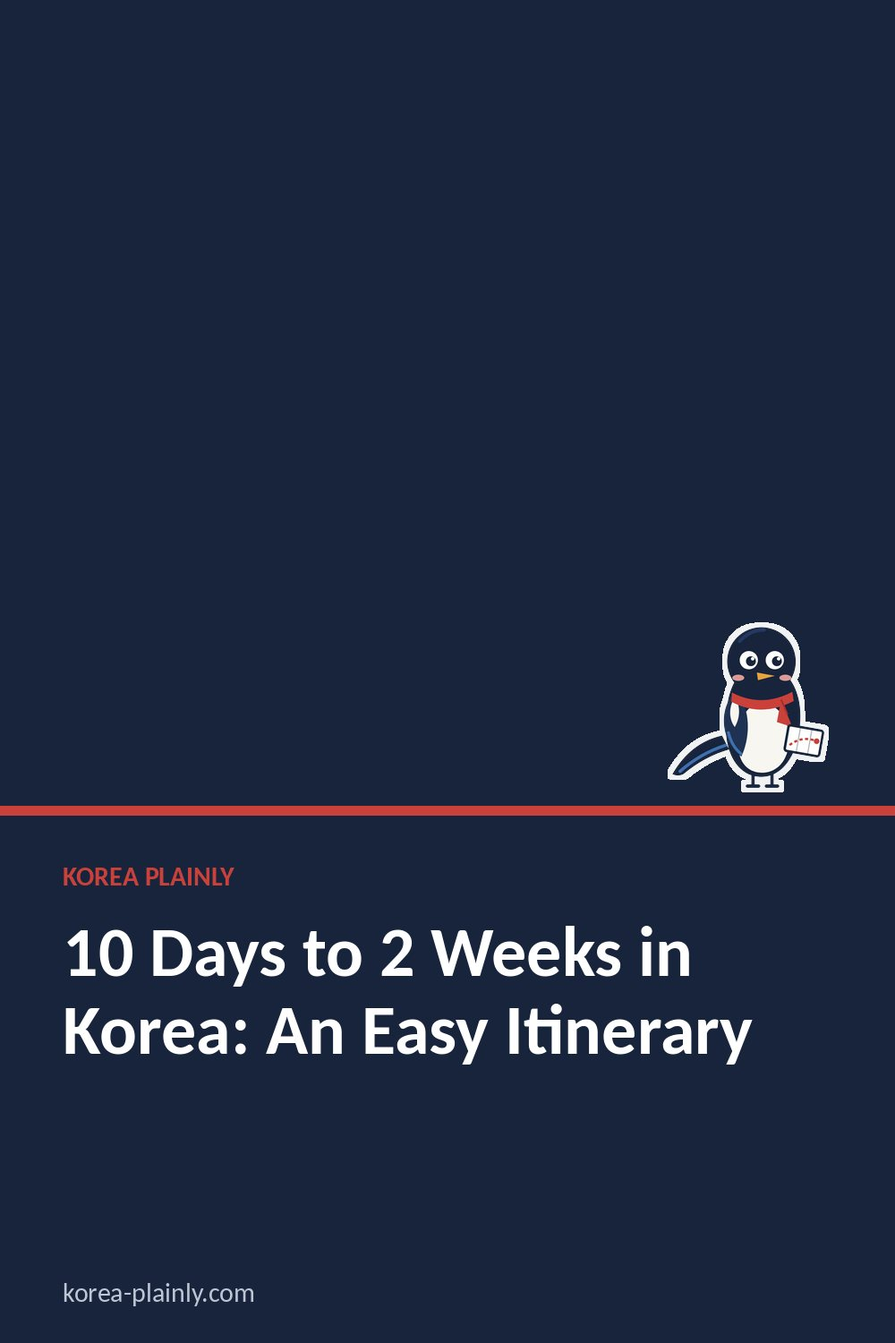
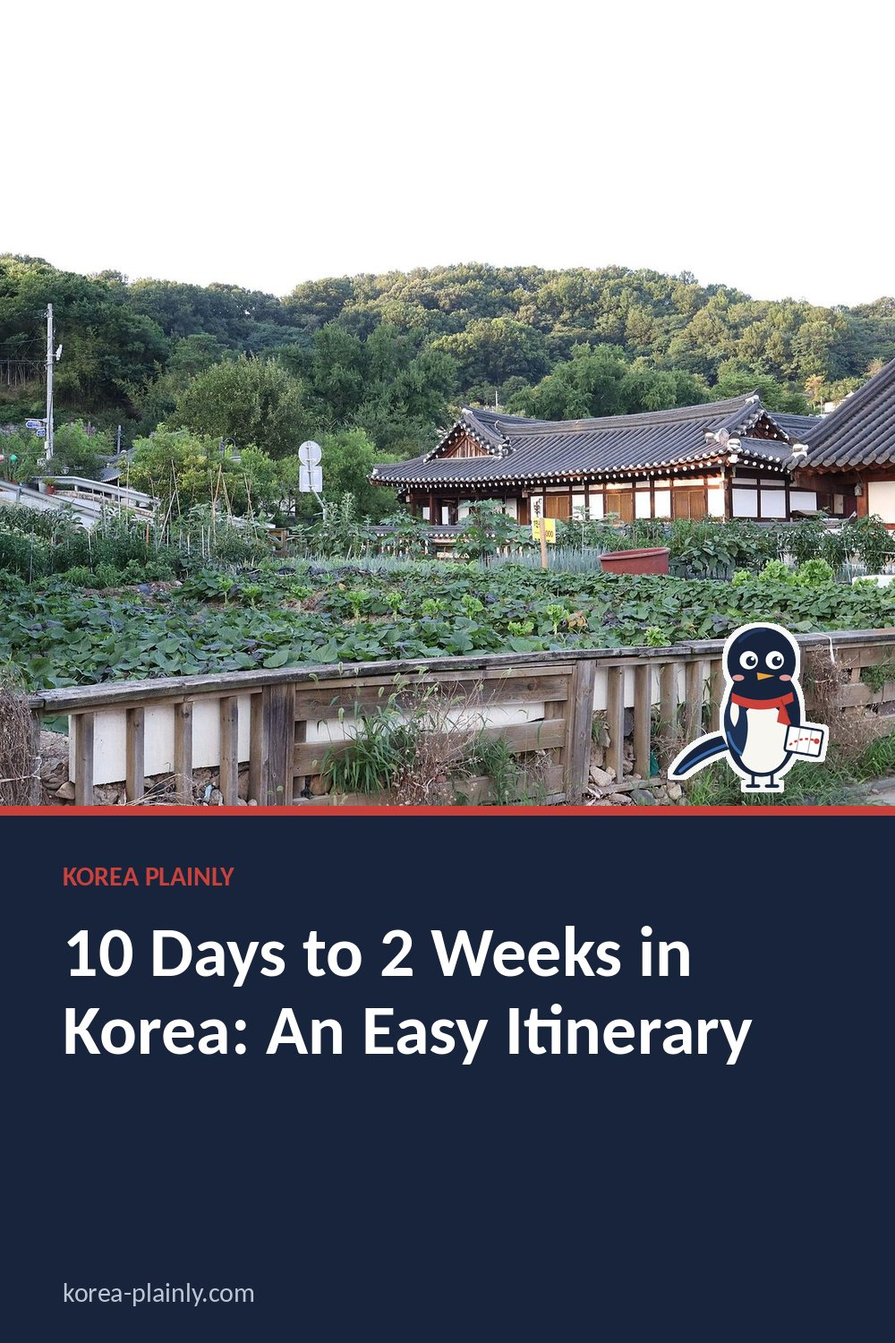
Site maintenance

diff --git a/seoul-5-day-itinerary.html b/seoul-5-day-itinerary.html
@@ -44,7 +44,7 @@
 
 <meta
   property="og:image"
-  content="https://korea-plainly.com/og-default.jpg"
+  content="https://korea-plainly.com/photo-seoul-5-day-itinerary.jpg"
 >
 
 <meta
@@ -69,7 +69,7 @@
 
 <meta
   name="twitter:image"
-  content="https://korea-plainly.com/og-default.jpg"
+  content="https://korea-plainly.com/photo-seoul-5-day-itinerary.jpg"
 >
 
 <style>
@@ -247,7 +247,7 @@ footer {
 <link rel="stylesheet" href="article.css?v=3">
 <link rel="stylesheet" href="https://fonts.googleapis.com/css2?family=DM+Sans:wght@400;500;600;700&family=Playfair+Display:ital,wght@0,600;1,600&display=swap">
 <link rel="icon" href="/favicon.svg" type="image/svg+xml">
-<script type="application/ld+json" id="kp-article-ld">{"@context": "https://schema.org", "@type": "Article", "headline": "5 Days in Seoul: A Relaxed Itinerary for First-Timers", "description": "Five days in Seoul for first-time visitors: palaces and hanok lanes, markets and Namsan, Hongdae and the Han River, Gangnam and Jamsil, and a day trip to the DMZ or Suwon.", "image": ["https://korea-plainly.com/og-default.jpg"], "datePublished": "2026-10-15", "dateModified": "2026-10-15", "author": {"@type": "Organization", "name": "Korea Plainly", "url": "https://korea-plainly.com/"}, "publisher": {"@type": "Organization", "name": "Korea Plainly", "url": "https://korea-plainly.com/"}, "mainEntityOfPage": "https://korea-plainly.com/seoul-5-day-itinerary.html"}</script>
+<script type="application/ld+json" id="kp-article-ld">{"@context": "https://schema.org", "@type": "Article", "headline": "5 Days in Seoul: A Relaxed Itinerary for First-Timers", "description": "Five days in Seoul for first-time visitors: palaces and hanok lanes, markets and Namsan, Hongdae and the Han River, Gangnam and Jamsil, and a day trip to the DMZ or Suwon.", "image": ["https://korea-plainly.com/photo-seoul-5-day-itinerary.jpg"], "datePublished": "2026-10-15", "dateModified": "2026-10-15", "author": {"@type": "Organization", "name": "Korea Plainly", "url": "https://korea-plainly.com/"}, "publisher": {"@type": "Organization", "name": "Korea Plainly", "url": "https://korea-plainly.com/"}, "mainEntityOfPage": "https://korea-plainly.com/seoul-5-day-itinerary.html"}</script>
 <script type="application/ld+json" id="kp-breadcrumb-ld">{"@context": "https://schema.org", "@type": "BreadcrumbList", "itemListElement": [{"@type": "ListItem", "position": 1, "name": "Home", "item": "https://korea-plainly.com/"}, {"@type": "ListItem", "position": 2, "name": "Guides", "item": "https://korea-plainly.com/guides.html"}, {"@type": "ListItem", "position": 3, "name": "Travel Basics", "item": "https://korea-plainly.com/guides.html?category=travel"}, {"@type": "ListItem", "position": 4, "name": "5 Days in Seoul: A Relaxed Itinerary for First-Timers", "item": "https://korea-plainly.com/seoul-5-day-itinerary.html"}]}</script>
 <meta property="article:published_time" content="2026-10-15">
 </head>
@@ -288,9 +288,10 @@ Five days in Seoul for first-time visitors: palaces and hanok lanes, markets and
 
 <img
   class="cover"
-  src="og-default.jpg"
-  alt="The Han River in Seoul" srcset="img/og-default.96d3092f.w480.webp 480w, img/og-default.96d3092f.w800.webp 800w, og-default.jpg 1200w" sizes="(max-width: 860px) 100vw, 820px" fetchpriority="high"
+  src="photo-seoul-5-day-itinerary.jpg"
+  alt="The Han River in Seoul" srcset="img/photo-seoul-5-day-itinerary.e278facb.w480.webp 480w, img/photo-seoul-5-day-itinerary.e278facb.w800.webp 800w, img/photo-seoul-5-day-itinerary.e278facb.w1200.webp 1200w, photo-seoul-5-day-itinerary.jpg 1600w" sizes="(max-width: 860px) 100vw, 820px" fetchpriority="high"
 >
+<p class="photo-credit" data-kp="photo-credit" style="font-size:12px;color:#777;margin:-18px 0 24px"><a href="https://commons.wikimedia.org/wiki/File:Han_River,_Seoul_(49531226448).jpg" target="_blank" rel="noopener nofollow" style="color:inherit">Photo: Matt Kieffer from London, United Kingdom, CC BY-SA 2.0, via Wikimedia Commons</a></p>
 
 <article>
 
@@ -357,7 +358,7 @@ Five days in Seoul for first-time visitors: palaces and hanok lanes, markets and
 <!-- /kp-kkachi -->
 <section class="related-guides">
 <h2>Related guides</h2>
-<div class="kp-related"><a href="jeju-3-day-itinerary.html"><img src="photo-jeju-3-day-itinerary.jpg" alt="" loading="lazy" srcset="img/photo-jeju-3-day-itinerary.81a249f6.w480.webp 480w, img/photo-jeju-3-day-itinerary.81a249f6.w800.webp 800w, img/photo-jeju-3-day-itinerary.81a249f6.w1200.webp 1200w, photo-jeju-3-day-itinerary.jpg 1600w" sizes="(max-width: 600px) 100vw, (max-width: 1000px) 50vw, 400px" decoding="async"><span>3 Days in Jeju: An Island Itinerary for First-Timers</span></a><a href="seoul-3-day-itinerary.html"><img src="photo-seoul-3-day-itinerary.jpg" alt="" loading="lazy" srcset="img/photo-seoul-3-day-itinerary.6f9c95fd.w480.webp 480w, img/photo-seoul-3-day-itinerary.6f9c95fd.w800.webp 800w, img/photo-seoul-3-day-itinerary.6f9c95fd.w1200.webp 1200w, photo-seoul-3-day-itinerary.jpg 1600w" sizes="(max-width: 600px) 100vw, (max-width: 1000px) 50vw, 400px" decoding="async"><span>3 Days in Seoul: A First-Timer&#x27;s Itinerary</span></a><a href="korea-7-day-itinerary.html"><img src="thumb-auto-korea-7-day-itinerary.svg" alt="" loading="lazy"><span>7 Days in Korea: A First-Timer&#x27;s Itinerary (Seoul, Gyeongju, Busan)</span></a></div>
+<div class="kp-related"><a href="jeju-3-day-itinerary.html"><img src="photo-jeju-3-day-itinerary.jpg" alt="" loading="lazy" srcset="img/photo-jeju-3-day-itinerary.81a249f6.w480.webp 480w, img/photo-jeju-3-day-itinerary.81a249f6.w800.webp 800w, img/photo-jeju-3-day-itinerary.81a249f6.w1200.webp 1200w, photo-jeju-3-day-itinerary.jpg 1600w" sizes="(max-width: 600px) 100vw, (max-width: 1000px) 50vw, 400px" decoding="async"><span>3 Days in Jeju: An Island Itinerary for First-Timers</span></a><a href="seoul-3-day-itinerary.html"><img src="photo-seoul-3-day-itinerary.jpg" alt="" loading="lazy" srcset="img/photo-seoul-3-day-itinerary.6f9c95fd.w480.webp 480w, img/photo-seoul-3-day-itinerary.6f9c95fd.w800.webp 800w, img/photo-seoul-3-day-itinerary.6f9c95fd.w1200.webp 1200w, photo-seoul-3-day-itinerary.jpg 1600w" sizes="(max-width: 600px) 100vw, (max-width: 1000px) 50vw, 400px" decoding="async"><span>3 Days in Seoul: A First-Timer&#x27;s Itinerary</span></a><a href="korea-7-day-itinerary.html"><img src="photo-korea-7-day-itinerary.jpg" alt="" loading="lazy" srcset="img/photo-korea-7-day-itinerary.3d2d4641.w480.webp 480w, img/photo-korea-7-day-itinerary.3d2d4641.w800.webp 800w, img/photo-korea-7-day-itinerary.3d2d4641.w1200.webp 1200w, photo-korea-7-day-itinerary.jpg 1600w" sizes="(max-width: 600px) 100vw, (max-width: 1000px) 50vw, 400px" decoding="async"><span>7 Days in Korea: A First-Timer&#x27;s Itinerary (Seoul, Gyeongju, Busan)</span></a></div>
 </section>
 
 </article>

diff --git a/korea-10-day-itinerary.html b/korea-10-day-itinerary.html
@@ -44,7 +44,7 @@
 
 <meta
   property="og:image"
-  content="https://korea-plainly.com/og-default.jpg"
+  content="https://korea-plainly.com/photo-korea-10-day-itinerary.jpg"
 >
 
 <meta
@@ -69,7 +69,7 @@
 
 <meta
   name="twitter:image"
-  content="https://korea-plainly.com/og-default.jpg"
+  content="https://korea-plainly.com/photo-korea-10-day-itinerary.jpg"
 >
 
 <style>
@@ -247,7 +247,7 @@ footer {
 <link rel="stylesheet" href="article.css?v=3">
 <link rel="stylesheet" href="https://fonts.googleapis.com/css2?family=DM+Sans:wght@400;500;600;700&family=Playfair+Display:ital,wght@0,600;1,600&display=swap">
 <link rel="icon" href="/favicon.svg" type="image/svg+xml">
-<script type="application/ld+json" id="kp-article-ld">{"@context": "https://schema.org", "@type": "Article", "headline": "10 Days to 2 Weeks in Korea: An Easy Itinerary", "description": "A 10-day Korea itinerary for first-time visitors: Seoul, Jeonju's hanok village, Gyeongju, Busan and Jeju, with how to stretch it to two weeks with the east coast and Seoraksan.", "image": ["https://korea-plainly.com/og-default.jpg"], "datePublished": "2026-10-15", "dateModified": "2026-10-15", "author": {"@type": "Organization", "name": "Korea Plainly", "url": "https://korea-plainly.com/"}, "publisher": {"@type": "Organization", "name": "Korea Plainly", "url": "https://korea-plainly.com/"}, "mainEntityOfPage": "https://korea-plainly.com/korea-10-day-itinerary.html"}</script>
+<script type="application/ld+json" id="kp-article-ld">{"@context": "https://schema.org", "@type": "Article", "headline": "10 Days to 2 Weeks in Korea: An Easy Itinerary", "description": "A 10-day Korea itinerary for first-time visitors: Seoul, Jeonju's hanok village, Gyeongju, Busan and Jeju, with how to stretch it to two weeks with the east coast and Seoraksan.", "image": ["https://korea-plainly.com/photo-korea-10-day-itinerary.jpg"], "datePublished": "2026-10-15", "dateModified": "2026-10-15", "author": {"@type": "Organization", "name": "Korea Plainly", "url": "https://korea-plainly.com/"}, "publisher": {"@type": "Organization", "name": "Korea Plainly", "url": "https://korea-plainly.com/"}, "mainEntityOfPage": "https://korea-plainly.com/korea-10-day-itinerary.html"}</script>
 <script type="application/ld+json" id="kp-breadcrumb-ld">{"@context": "https://schema.org", "@type": "BreadcrumbList", "itemListElement": [{"@type": "ListItem", "position": 1, "name": "Home", "item": "https://korea-plainly.com/"}, {"@type": "ListItem", "position": 2, "name": "Guides", "item": "https://korea-plainly.com/guides.html"}, {"@type": "ListItem", "position": 3, "name": "Travel Basics", "item": "https://korea-plainly.com/guides.html?category=travel"}, {"@type": "ListItem", "position": 4, "name": "10 Days to 2 Weeks in Korea: An Easy Itinerary", "item": "https://korea-plainly.com/korea-10-day-itinerary.html"}]}</script>
 <meta property="article:published_time" content="2026-10-15">
 </head>
@@ -288,9 +288,10 @@ A 10-day Korea itinerary for first-time visitors: Seoul, Jeonju&#x27;s hanok vil
 
 <img
   class="cover"
-  src="og-default.jpg"
-  alt="Rooftops of Jeonju Hanok Village" srcset="img/og-default.96d3092f.w480.webp 480w, img/og-default.96d3092f.w800.webp 800w, og-default.jpg 1200w" sizes="(max-width: 860px) 100vw, 820px" fetchpriority="high"
+  src="photo-korea-10-day-itinerary.jpg"
+  alt="Rooftops of Jeonju Hanok Village" srcset="img/photo-korea-10-day-itinerary.857edba8.w480.webp 480w, img/photo-korea-10-day-itinerary.857edba8.w800.webp 800w, img/photo-korea-10-day-itinerary.857edba8.w1200.webp 1200w, photo-korea-10-day-itinerary.jpg 1600w" sizes="(max-width: 860px) 100vw, 820px" fetchpriority="high"
 >
+<p class="photo-credit" data-kp="photo-credit" style="font-size:12px;color:#777;margin:-18px 0 24px"><a href="https://commons.wikimedia.org/wiki/File:Jeonju_Hanok_Village_20220701_001.jpg" target="_blank" rel="noopener nofollow" style="color:inherit">Photo: Mobius6, CC BY-SA 4.0, via Wikimedia Commons</a></p>
 
 <article>
 
@@ -364,7 +365,7 @@ A 10-day Korea itinerary for first-time visitors: Seoul, Jeonju&#x27;s hanok vil
 <!-- /kp-kkachi -->
 <section class="related-guides">
 <h2>Related guides</h2>
-<div class="kp-related"><a href="korea-7-day-itinerary.html"><img src="thumb-auto-korea-7-day-itinerary.svg" alt="" loading="lazy"><span>7 Days in Korea: A First-Timer&#x27;s Itinerary (Seoul, Gyeongju, Busan)</span></a><a href="jeju-3-day-itinerary.html"><img src="photo-jeju-3-day-itinerary.jpg" alt="" loading="lazy" srcset="img/photo-jeju-3-day-itinerary.81a249f6.w480.webp 480w, img/photo-jeju-3-day-itinerary.81a249f6.w800.webp 800w, img/photo-jeju-3-day-itinerary.81a249f6.w1200.webp 1200w, photo-jeju-3-day-itinerary.jpg 1600w" sizes="(max-width: 600px) 100vw, (max-width: 1000px) 50vw, 400px" decoding="async"><span>3 Days in Jeju: An Island Itinerary for First-Timers</span></a><a href="seoul-3-day-itinerary.html"><img src="photo-seoul-3-day-itinerary.jpg" alt="" loading="lazy" srcset="img/photo-seoul-3-day-itinerary.6f9c95fd.w480.webp 480w, img/photo-seoul-3-day-itinerary.6f9c95fd.w800.webp 800w, img/photo-seoul-3-day-itinerary.6f9c95fd.w1200.webp 1200w, photo-seoul-3-day-itinerary.jpg 1600w" sizes="(max-width: 600px) 100vw, (max-width: 1000px) 50vw, 400px" decoding="async"><span>3 Days in Seoul: A First-Timer&#x27;s Itinerary</span></a></div>
+<div class="kp-related"><a href="korea-7-day-itinerary.html"><img src="photo-korea-7-day-itinerary.jpg" alt="" loading="lazy" srcset="img/photo-korea-7-day-itinerary.3d2d4641.w480.webp 480w, img/photo-korea-7-day-itinerary.3d2d4641.w800.webp 800w, img/photo-korea-7-day-itinerary.3d2d4641.w1200.webp 1200w, photo-korea-7-day-itinerary.jpg 1600w" sizes="(max-width: 600px) 100vw, (max-width: 1000px) 50vw, 400px" decoding="async"><span>7 Days in Korea: A First-Timer&#x27;s Itinerary (Seoul, Gyeongju, Busan)</span></a><a href="jeju-3-day-itinerary.html"><img src="photo-jeju-3-day-itinerary.jpg" alt="" loading="lazy" srcset="img/photo-jeju-3-day-itinerary.81a249f6.w480.webp 480w, img/photo-jeju-3-day-itinerary.81a249f6.w800.webp 800w, img/photo-jeju-3-day-itinerary.81a249f6.w1200.webp 1200w, photo-jeju-3-day-itinerary.jpg 1600w" sizes="(max-width: 600px) 100vw, (max-width: 1000px) 50vw, 400px" decoding="async"><span>3 Days in Jeju: An Island Itinerary for First-Timers</span></a><a href="seoul-3-day-itinerary.html"><img src="photo-seoul-3-day-itinerary.jpg" alt="" loading="lazy" srcset="img/photo-seoul-3-day-itinerary.6f9c95fd.w480.webp 480w, img/photo-seoul-3-day-itinerary.6f9c95fd.w800.webp 800w, img/photo-seoul-3-day-itinerary.6f9c95fd.w1200.webp 1200w, photo-seoul-3-day-itinerary.jpg 1600w" sizes="(max-width: 600px) 100vw, (max-width: 1000px) 50vw, 400px" decoding="async"><span>3 Days in Seoul: A First-Timer&#x27;s Itinerary</span></a></div>
 </section>
 
 </article>

diff --git a/korea-7-day-itinerary.html b/korea-7-day-itinerary.html
@@ -44,7 +44,7 @@
 
 <meta
   property="og:image"
-  content="https://korea-plainly.com/og-default.jpg"
+  content="https://korea-plainly.com/photo-korea-7-day-itinerary.jpg"
 >
 
 <meta
@@ -69,7 +69,7 @@
 
 <meta
   name="twitter:image"
-  content="https://korea-plainly.com/og-default.jpg"
+  content="https://korea-plainly.com/photo-korea-7-day-itinerary.jpg"
 >
 
 <style>
@@ -247,7 +247,7 @@ footer {
 <link rel="stylesheet" href="article.css?v=3">
 <link rel="stylesheet" href="https://fonts.googleapis.com/css2?family=DM+Sans:wght@400;500;600;700&family=Playfair+Display:ital,wght@0,600;1,600&display=swap">
 <link rel="icon" href="/favicon.svg" type="image/svg+xml">
-<script type="application/ld+json" id="kp-article-ld">{"@context": "https://schema.org", "@type": "Article", "headline": "7 Days in Korea: A First-Timer's Itinerary (Seoul, Gyeongju, Busan)", "description": "A one-week Korea itinerary for first-time visitors: three days in Seoul, a day trip, ancient Gyeongju and the beaches of Busan, linked by fast KTX trains, with a Jeju alternative.", "image": ["https://korea-plainly.com/og-default.jpg"], "datePublished": "2026-10-15", "dateModified": "2026-10-15", "author": {"@type": "Organization", "name": "Korea Plainly", "url": "https://korea-plainly.com/"}, "publisher": {"@type": "Organization", "name": "Korea Plainly", "url": "https://korea-plainly.com/"}, "mainEntityOfPage": "https://korea-plainly.com/korea-7-day-itinerary.html"}</script>
+<script type="application/ld+json" id="kp-article-ld">{"@context": "https://schema.org", "@type": "Article", "headline": "7 Days in Korea: A First-Timer's Itinerary (Seoul, Gyeongju, Busan)", "description": "A one-week Korea itinerary for first-time visitors: three days in Seoul, a day trip, ancient Gyeongju and the beaches of Busan, linked by fast KTX trains, with a Jeju alternative.", "image": ["https://korea-plainly.com/photo-korea-7-day-itinerary.jpg"], "datePublished": "2026-10-15", "dateModified": "2026-10-15", "author": {"@type": "Organization", "name": "Korea Plainly", "url": "https://korea-plainly.com/"}, "publisher": {"@type": "Organization", "name": "Korea Plainly", "url": "https://korea-plainly.com/"}, "mainEntityOfPage": "https://korea-plainly.com/korea-7-day-itinerary.html"}</script>
 <script type="application/ld+json" id="kp-breadcrumb-ld">{"@context": "https://schema.org", "@type": "BreadcrumbList", "itemListElement": [{"@type": "ListItem", "position": 1, "name": "Home", "item": "https://korea-plainly.com/"}, {"@type": "ListItem", "position": 2, "name": "Guides", "item": "https://korea-plainly.com/guides.html"}, {"@type": "ListItem", "position": 3, "name": "Travel Basics", "item": "https://korea-plainly.com/guides.html?category=travel"}, {"@type": "ListItem", "position": 4, "name": "7 Days in Korea: A First-Timer's Itinerary (Seoul, Gyeongju, Busan)", "item": "https://korea-plainly.com/korea-7-day-itinerary.html"}]}</script>
 <meta property="article:published_time" content="2026-10-15">
 </head>
@@ -288,9 +288,10 @@ A one-week Korea itinerary for first-time visitors: three days in Seoul, a day t
 
 <img
   class="cover"
-  src="og-default.jpg"
-  alt="Gyeongbokgung Palace in Seoul" srcset="img/og-default.96d3092f.w480.webp 480w, img/og-default.96d3092f.w800.webp 800w, og-default.jpg 1200w" sizes="(max-width: 860px) 100vw, 820px" fetchpriority="high"
+  src="photo-korea-7-day-itinerary.jpg"
+  alt="Gyeongbokgung Palace in Seoul" srcset="img/photo-korea-7-day-itinerary.3d2d4641.w480.webp 480w, img/photo-korea-7-day-itinerary.3d2d4641.w800.webp 800w, img/photo-korea-7-day-itinerary.3d2d4641.w1200.webp 1200w, photo-korea-7-day-itinerary.jpg 1600w" sizes="(max-width: 860px) 100vw, 820px" fetchpriority="high"
 >
+<p class="photo-credit" data-kp="photo-credit" style="font-size:12px;color:#777;margin:-18px 0 24px"><a href="https://commons.wikimedia.org/wiki/File:Front_view_of_Heungnyemun_Gate_in_Gyeongbokgung_Palace_Seoul_South_Korea.jpg" target="_blank" rel="noopener nofollow" style="color:inherit">Photo: Basile Morin, CC BY-SA 4.0, via Wikimedia Commons</a></p>
 
 <article>
 
@@ -377,7 +378,7 @@ A one-week Korea itinerary for first-time visitors: three days in Seoul, a day t
 <!-- /kp-kkachi -->
 <section class="related-guides">
 <h2>Related guides</h2>
-<div class="kp-related"><a href="seoul-3-day-itinerary.html"><img src="photo-seoul-3-day-itinerary.jpg" alt="" loading="lazy" srcset="img/photo-seoul-3-day-itinerary.6f9c95fd.w480.webp 480w, img/photo-seoul-3-day-itinerary.6f9c95fd.w800.webp 800w, img/photo-seoul-3-day-itinerary.6f9c95fd.w1200.webp 1200w, photo-seoul-3-day-itinerary.jpg 1600w" sizes="(max-width: 600px) 100vw, (max-width: 1000px) 50vw, 400px" decoding="async"><span>3 Days in Seoul: A First-Timer&#x27;s Itinerary</span></a><a href="seoul-5-day-itinerary.html"><img src="thumb-auto-seoul-5-day-itinerary.svg" alt="" loading="lazy"><span>5 Days in Seoul: A Relaxed Itinerary for First-Timers</span></a><a href="korea-10-day-itinerary.html"><img src="thumb-auto-korea-10-day-itinerary.svg" alt="" loading="lazy"><span>10 Days to 2 Weeks in Korea: An Easy Itinerary</span></a></div>
+<div class="kp-related"><a href="seoul-3-day-itinerary.html"><img src="photo-seoul-3-day-itinerary.jpg" alt="" loading="lazy" srcset="img/photo-seoul-3-day-itinerary.6f9c95fd.w480.webp 480w, img/photo-seoul-3-day-itinerary.6f9c95fd.w800.webp 800w, img/photo-seoul-3-day-itinerary.6f9c95fd.w1200.webp 1200w, photo-seoul-3-day-itinerary.jpg 1600w" sizes="(max-width: 600px) 100vw, (max-width: 1000px) 50vw, 400px" decoding="async"><span>3 Days in Seoul: A First-Timer&#x27;s Itinerary</span></a><a href="seoul-5-day-itinerary.html"><img src="photo-seoul-5-day-itinerary.jpg" alt="" loading="lazy" srcset="img/photo-seoul-5-day-itinerary.e278facb.w480.webp 480w, img/photo-seoul-5-day-itinerary.e278facb.w800.webp 800w, img/photo-seoul-5-day-itinerary.e278facb.w1200.webp 1200w, photo-seoul-5-day-itinerary.jpg 1600w" sizes="(max-width: 600px) 100vw, (max-width: 1000px) 50vw, 400px" decoding="async"><span>5 Days in Seoul: A Relaxed Itinerary for First-Timers</span></a><a href="korea-10-day-itinerary.html"><img src="photo-korea-10-day-itinerary.jpg" alt="" loading="lazy" srcset="img/photo-korea-10-day-itinerary.857edba8.w480.webp 480w, img/photo-korea-10-day-itinerary.857edba8.w800.webp 800w, img/photo-korea-10-day-itinerary.857edba8.w1200.webp 1200w, photo-korea-10-day-itinerary.jpg 1600w" sizes="(max-width: 600px) 100vw, (max-width: 1000px) 50vw, 400px" decoding="async"><span>10 Days to 2 Weeks in Korea: An Easy Itinerary</span></a></div>
 </section>
 
 </article>

diff --git a/seoul.html b/seoul.html
@@ -51,7 +51,7 @@ h1{font-size:clamp(44px,8vw,82px);line-height:1;margin:12px 0}.intro{max-width:7
 <main><div class="kicker">Regional hub</div><h1>Seoul</h1>
 <p class="intro">Korea&#x27;s capital mixes royal palaces and hanok alleys with neon shopping streets, riverside parks and some of the best food in the country. An excellent subway network makes it easy to see a lot in a few days.</p>
 <div class="chips"><a href="seoul-see-do.html">See &amp; Do</a><a href="seoul-eat-drink.html">Eat &amp; Drink</a><a href="seoul-shop.html">Shop</a><a href="seoul-stay.html">Stay</a></div>
-<a class="plan" href="seoul-3-day-itinerary.html"><img src="photo-seoul-3-day-itinerary.jpg" alt="" loading="lazy" srcset="img/photo-seoul-3-day-itinerary.6f9c95fd.w480.webp 480w, img/photo-seoul-3-day-itinerary.6f9c95fd.w800.webp 800w, img/photo-seoul-3-day-itinerary.6f9c95fd.w1200.webp 1200w, photo-seoul-3-day-itinerary.jpg 1600w" sizes="(max-width: 600px) 100vw, (max-width: 1000px) 50vw, 400px" decoding="async"><div><small>Plan your days</small><b>3 Days in Seoul: A First-Timer&#x27;s Itinerary</b><em>Read the itinerary &rarr;</em></div></a><a class="plan" href="seoul-5-day-itinerary.html"><img src="og-default.jpg" alt="" loading="lazy" srcset="img/og-default.96d3092f.w480.webp 480w, img/og-default.96d3092f.w800.webp 800w, og-default.jpg 1200w" sizes="(max-width: 600px) 100vw, (max-width: 1000px) 50vw, 400px" decoding="async"><div><small>Plan your days</small><b>5 Days in Seoul: A Relaxed Itinerary for First-Timers</b><em>Read the itinerary &rarr;</em></div></a>
+<a class="plan" href="seoul-3-day-itinerary.html"><img src="photo-seoul-3-day-itinerary.jpg" alt="" loading="lazy" srcset="img/photo-seoul-3-day-itinerary.6f9c95fd.w480.webp 480w, img/photo-seoul-3-day-itinerary.6f9c95fd.w800.webp 800w, img/photo-seoul-3-day-itinerary.6f9c95fd.w1200.webp 1200w, photo-seoul-3-day-itinerary.jpg 1600w" sizes="(max-width: 600px) 100vw, (max-width: 1000px) 50vw, 400px" decoding="async"><div><small>Plan your days</small><b>3 Days in Seoul: A First-Timer&#x27;s Itinerary</b><em>Read the itinerary &rarr;</em></div></a><a class="plan" href="seoul-5-day-itinerary.html"><img src="photo-seoul-5-day-itinerary.jpg" alt="" loading="lazy" srcset="img/photo-seoul-5-day-itinerary.e278facb.w480.webp 480w, img/photo-seoul-5-day-itinerary.e278facb.w800.webp 800w, img/photo-seoul-5-day-itinerary.e278facb.w1200.webp 1200w, photo-seoul-5-day-itinerary.jpg 1600w" sizes="(max-width: 600px) 100vw, (max-width: 1000px) 50vw, 400px" decoding="async"><div><small>Plan your days</small><b>5 Days in Seoul: A Relaxed Itinerary for First-Timers</b><em>Read the itinerary &rarr;</em></div></a>
 <section class="grid"><article class="card"><a href="seoul-travel-cheonggyecheon.html"><img src="regional-seoul-travel-cheonggyecheon.jpg" alt="" loading="lazy" srcset="img/regional-seoul-travel-cheonggyecheon.aae54a27.w480.webp 480w, img/regional-seoul-travel-cheonggyecheon.aae54a27.w800.webp 800w, img/regional-seoul-travel-cheonggyecheon.aae54a27.w1200.webp 1200w, regional-seoul-travel-cheonggyecheon.jpg 1600w" sizes="(max-width: 600px) 100vw, (max-width: 1000px) 50vw, 400px" decoding="async"><div class="card-body"><div class="tag">Travel</div><h2>Cheonggyecheon: A Quiet Walk Through the Heart of Seoul</h2><span>Read guide &rarr;</span></div></a></article><article class="card"><a href="seoul-food-kampungku-restaurant.html"><img src="regional-seoul-food-kampungku-restaurant.jpg" alt="" loading="lazy"><div class="card-body"><div class="tag">Food</div><h2>Kampungku Restaurant: Halal Malaysian Food in Seoul</h2><span>Read guide &rarr;</span></div></a></article><article class="card"><a href="seoul-cafe-cafe-onion-anguk.html"><img src="regional-seoul-cafe-cafe-onion-anguk.jpg" alt="" loading="lazy" srcset="img/regional-seoul-cafe-cafe-onion-anguk.6e9e91af.w480.webp 480w, img/regional-seoul-cafe-cafe-onion-anguk.6e9e91af.w800.webp 800w, img/regional-seoul-cafe-cafe-onion-anguk.6e9e91af.w1200.webp 1200w, regional-seoul-cafe-cafe-onion-anguk.jpg 1600w" sizes="(max-width: 600px) 100vw, (max-width: 1000px) 50vw, 400px" decoding="async"><div class="card-body"><div class="tag">Cafe</div><h2>Cafe Onion Anguk: Coffee in a Seoul hanok</h2><span>Read guide &rarr;</span></div></a></article><article class="card"><a href="seoul-shopping-myeongdong-shopping-street.html"><img src="regional-seoul-shopping-myeongdong-shopping-street.jpg" alt="" loading="lazy" srcset="img/regional-seoul-shopping-myeongdong-shopping-street.16504d05.w480.webp 480w, img/regional-seoul-shopping-myeongdong-shopping-street.16504d05.w800.webp 800w, img/regional-seoul-shopping-myeongdong-shopping-street.16504d05.w1200.webp 1200w, regional-seoul-shopping-myeongdong-shopping-street.jpg 1600w" sizes="(max-width: 600px) 100vw, (max-width: 1000px) 50vw, 400px" decoding="async"><div class="card-body"><div class="tag">Shopping</div><h2>Myeongdong Shopping Street: A Practical Guide to Seoul’s Busy Retail District</h2><span>Read guide &rarr;</span></div></a></article><article class="card"><a href="seoul-culture-gyeongbokgung-palace.html"><img src="regional-seoul-culture-gyeongbokgung-palace.jpg" alt="" loading="lazy" srcset="img/regional-seoul-culture-gyeongbokgung-palace.fcd7813c.w480.webp 480w, img/regional-seoul-culture-gyeongbokgung-palace.fcd7813c.w800.webp 800w, img/regional-seoul-culture-gyeongbokgung-palace.fcd7813c.w1200.webp 1200w, regional-seoul-culture-gyeongbokgung-palace.jpg 1600w" sizes="(max-width: 600px) 100vw, (max-width: 1000px) 50vw, 400px" decoding="async"><div class="card-body"><div class="tag">Culture</div><h2>Gyeongbokgung Palace: A Guide to Seoul’s Grand Joseon Landmark</h2><span>Read guide &rarr;</span></div></a></article><article class="card"><a href="seoul-stay-four-seasons-hotel-seoul.html"><img src="regional-seoul-stay-four-seasons-hotel-seoul.jpg" alt="" loading="lazy" srcset="img/regional-seoul-stay-four-seasons-hotel-seoul.2cd76bd9.w480.webp 480w, img/regional-seoul-stay-four-seasons-hotel-seoul.2cd76bd9.w800.webp 800w, regional-seoul-stay-four-seasons-hotel-seoul.jpg 1024w" sizes="(max-width: 600px) 100vw, (max-width: 1000px) 50vw, 400px" decoding="async"><div class="card-body"><div class="tag">Stay</div><h2>Four Seasons Hotel Seoul: A polished base in Jongno</h2><span>Read guide &rarr;</span></div></a></article></section>
 <section class="related-guides">
 <h2>Related guides</h2>

diff --git a/guides.html b/guides.html
@@ -1304,7 +1304,7 @@ class="guide-card"
 href="korea-7-day-itinerary.html" data-guide-category="travel"
 >
 
-<div class="guide-image" data-thumb="thumb-auto-korea-7-day-itinerary.svg"><img class="guide-thumb" src="thumb-auto-korea-7-day-itinerary.svg" alt="" loading="eager" decoding="async">
+<div class="guide-image" data-thumb="photo-korea-7-day-itinerary.jpg"><img class="guide-thumb" src="photo-korea-7-day-itinerary.jpg" alt="" loading="eager" srcset="img/photo-korea-7-day-itinerary.3d2d4641.w480.webp 480w, img/photo-korea-7-day-itinerary.3d2d4641.w800.webp 800w, img/photo-korea-7-day-itinerary.3d2d4641.w1200.webp 1200w, photo-korea-7-day-itinerary.jpg 1600w" sizes="(max-width: 600px) 100vw, (max-width: 1000px) 50vw, 400px" decoding="async">
 
 <span>
 54
@@ -1338,7 +1338,7 @@ class="guide-card"
 href="korea-10-day-itinerary.html" data-guide-category="travel"
 >
 
-<div class="guide-image" data-thumb="thumb-auto-korea-10-day-itinerary.svg"><img class="guide-thumb" src="thumb-auto-korea-10-day-itinerary.svg" alt="" loading="lazy" decoding="async">
+<div class="guide-image" data-thumb="photo-korea-10-day-itinerary.jpg"><img class="guide-thumb" src="photo-korea-10-day-itinerary.jpg" alt="" loading="lazy" srcset="img/photo-korea-10-day-itinerary.857edba8.w480.webp 480w, img/photo-korea-10-day-itinerary.857edba8.w800.webp 800w, img/photo-korea-10-day-itinerary.857edba8.w1200.webp 1200w, photo-korea-10-day-itinerary.jpg 1600w" sizes="(max-width: 600px) 100vw, (max-width: 1000px) 50vw, 400px" decoding="async">
 
 <span>
 55
@@ -1372,7 +1372,7 @@ class="guide-card"
 href="seoul-5-day-itinerary.html" data-guide-category="travel"
 >
 
-<div class="guide-image" data-thumb="thumb-auto-seoul-5-day-itinerary.svg"><img class="guide-thumb" src="thumb-auto-seoul-5-day-itinerary.svg" alt="" loading="lazy" decoding="async">
+<div class="guide-image" data-thumb="photo-seoul-5-day-itinerary.jpg"><img class="guide-thumb" src="photo-seoul-5-day-itinerary.jpg" alt="" loading="lazy" srcset="img/photo-seoul-5-day-itinerary.e278facb.w480.webp 480w, img/photo-seoul-5-day-itinerary.e278facb.w800.webp 800w, img/photo-seoul-5-day-itinerary.e278facb.w1200.webp 1200w, photo-seoul-5-day-itinerary.jpg 1600w" sizes="(max-width: 600px) 100vw, (max-width: 1000px) 50vw, 400px" decoding="async">
 
 <span>
 56
